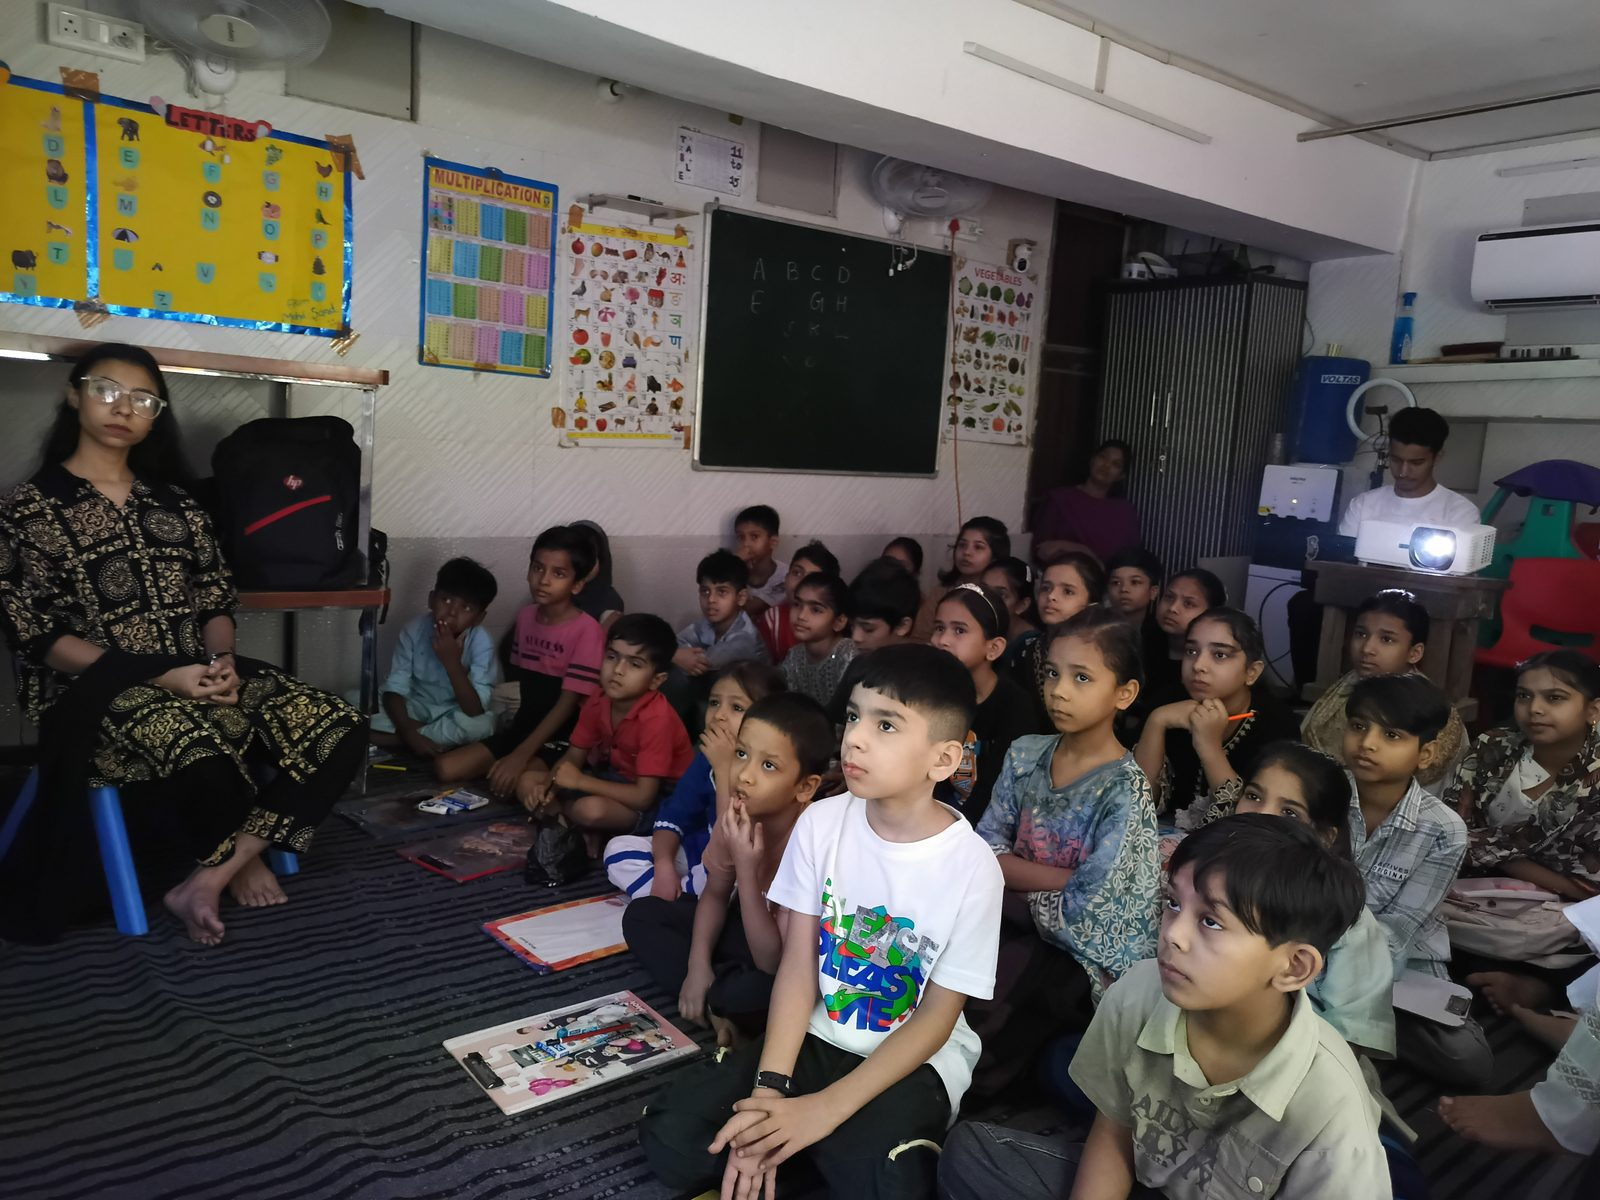
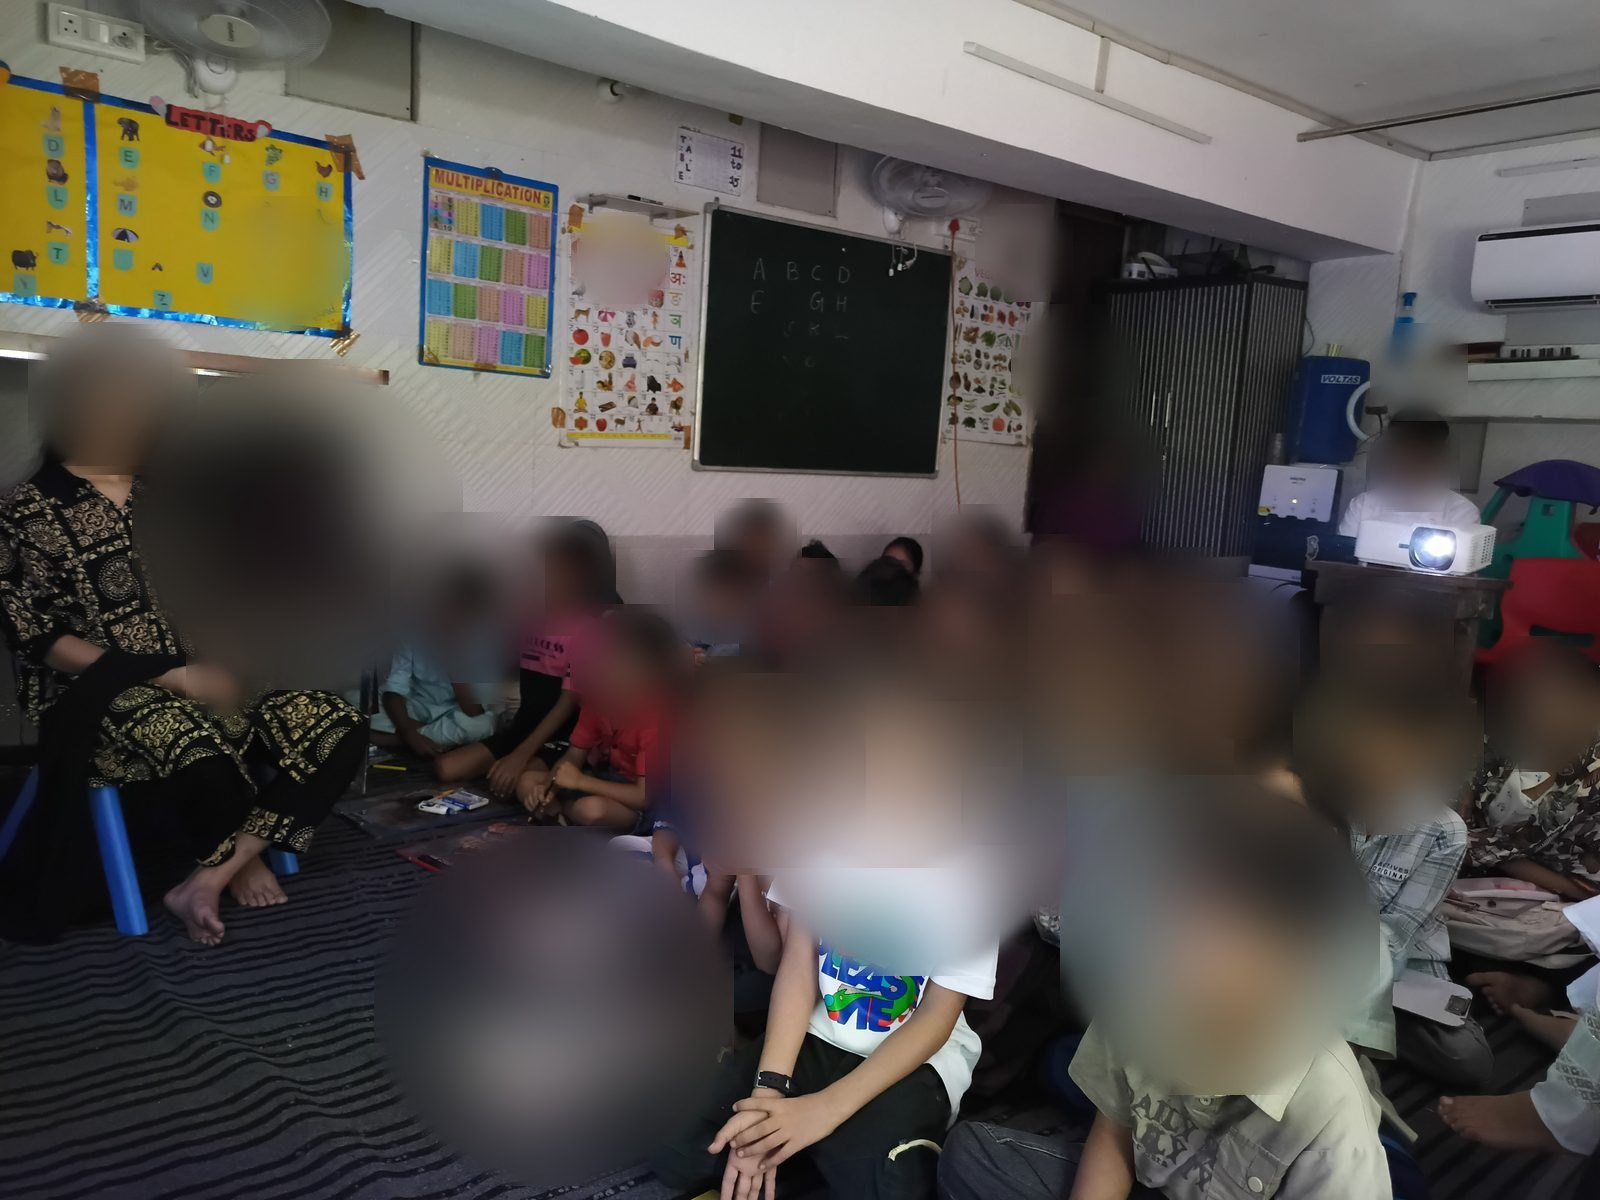
fix(education): blur every face in the school outreach photos
The nine photos on /education-outreach have been public since June showing
schoolchildren's faces unblurred. All nine are replaced with face-blurred
versions. Originals remain in git history if they are ever needed.

Method, and its limits. Haar cascade detection (frontal, alt2 and profile,
the profile pass also run mirrored) finds most faces but consistently misses
faces angled downward — the common pose here, since the children are drawing.
Detection is therefore a first pass, never the guarantee: every output was
reviewed by eye and 23 hand-placed boxes were added across six of the photos
for faces the detector missed, including an adult in event-01, a WR staff
member in event-08 and a seated child in event-05.

Blur is a double Gaussian at a radius scaled to each region, masked to a
feathered ellipse so it reads as a soft patch rather than a rectangle, and is
not reversible.

Also blurred: the two participation certificates in event-10, which carried a
child's name in readable print. Faces are not the only identifying detail in
these photographs.

Staff faces are blurred too, for consistency. Individual people can be left
unblurred by removing their box, if anyone pictured would prefer that.

scripts/face-blur.py and scripts/face-blur-boxes.json are committed so the
same pass can be re-run on new school photographs. It needs opencv-python
-headless 4.x; OpenCV 5 no longer ships the cascade files.

Claude-Session: https://claude.ai/code/session_01BqmmyHNViQyiGJfsHDTuvS

diff --git a/scripts/face-blur.py b/scripts/face-blur.py
@@ -1,0 +1,62 @@
+"""Face-blur pass for /education-outreach photos.
+
+Haar detection gets ~90% of faces; the remaining misses are supplied by hand
+via EXTRA (a per-file list of x,y,w,h boxes) after visual review. Detection is
+a first pass, never the guarantee.
+"""
+import cv2, sys, os, json, numpy as np
+
+H = cv2.data.haarcascades
+CASCADES = [cv2.CascadeClassifier(H + n) for n in (
+    "haarcascade_frontalface_default.xml",
+    "haarcascade_frontalface_alt2.xml",
+    "haarcascade_profileface.xml",
+)]
+PROF = CASCADES[2]
+
+def detect(img, scale=1.05, neighbours=4, minfrac=0.010):
+    g = cv2.equalizeHist(cv2.cvtColor(img, cv2.COLOR_BGR2GRAY))
+    m = max(16, int(min(img.shape[:2]) * minfrac))
+    boxes = []
+    for c in CASCADES:
+        boxes += [tuple(map(int, r)) for r in c.detectMultiScale(g, scale, neighbours, minSize=(m, m))]
+    w = g.shape[1]
+    for (x, y, bw, bh) in PROF.detectMultiScale(cv2.flip(g, 1), scale, neighbours, minSize=(m, m)):
+        boxes.append((int(w - x - bw), int(y), int(bw), int(bh)))
+    return boxes
+
+def blur_faces(img, boxes, pad=0.32):
+    out = img.copy()
+    h, w = img.shape[:2]
+    for (x, y, bw, bh) in boxes:
+        px, py = int(bw * pad), int(bh * pad)
+        x0, y0 = max(0, x - px), max(0, y - py)
+        x1, y1 = min(w, x + bw + px), min(h, y + bh + py)
+        roi = out[y0:y1, x0:x1]
+        if roi.size == 0:
+            continue
+        k = max(21, (int(max(x1 - x0, y1 - y0) / 2.0) | 1))
+        blurred = cv2.GaussianBlur(roi, (k, k), 0)
+        blurred = cv2.GaussianBlur(blurred, (k, k), 0)   # second pass: unrecoverable
+        mask = np.zeros(roi.shape[:2], np.uint8)
+        cv2.ellipse(mask, ((x1 - x0) // 2, (y1 - y0) // 2),
+                    ((x1 - x0) // 2, (y1 - y0) // 2), 0, 0, 360, 255, -1)
+        mask = (cv2.GaussianBlur(mask, (41, 41), 0)[..., None] / 255.0)
+        out[y0:y1, x0:x1] = (blurred * mask + roi * (1 - mask)).astype(np.uint8)
+    return out
+
+EXTRA = json.load(open(sys.argv[2])) if len(sys.argv) > 2 and os.path.exists(sys.argv[2]) else {}
+outdir = sys.argv[1]
+os.makedirs(outdir, exist_ok=True)
+report = {}
+for f in sorted(os.listdir("public/education")):
+    if not f.startswith("event-"):
+        continue
+    src = os.path.join("public/education", f)
+    img = cv2.imread(src)
+    auto = detect(img)
+    manual = [tuple(b) for b in EXTRA.get(f, [])]
+    cv2.imwrite(os.path.join(outdir, f), blur_faces(img, auto + manual),
+                [cv2.IMWRITE_JPEG_QUALITY, 86, cv2.IMWRITE_JPEG_PROGRESSIVE, 1])
+    report[f] = {"auto": len(auto), "manual": len(manual), "size": f"{img.shape[1]}x{img.shape[0]}"}
+    print(f"{f:16} {report[f]['size']:10} auto={len(auto):3} manual={len(manual)}")
